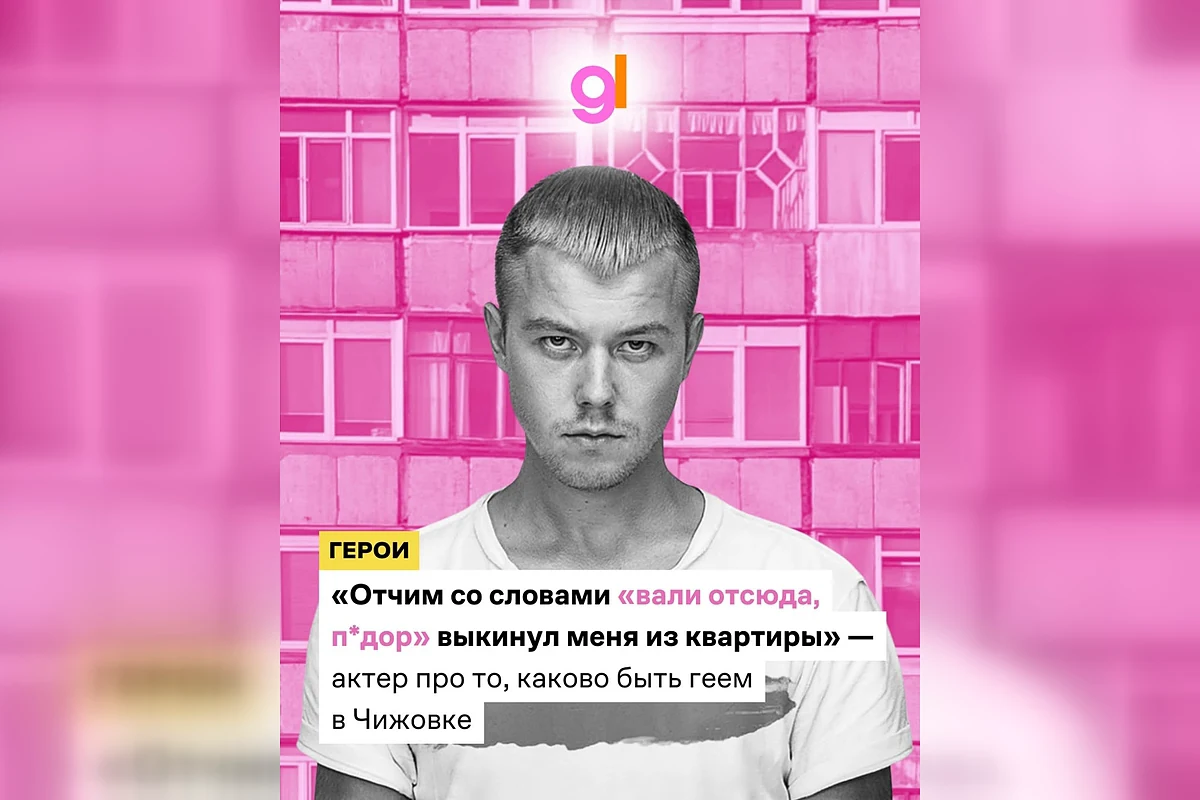
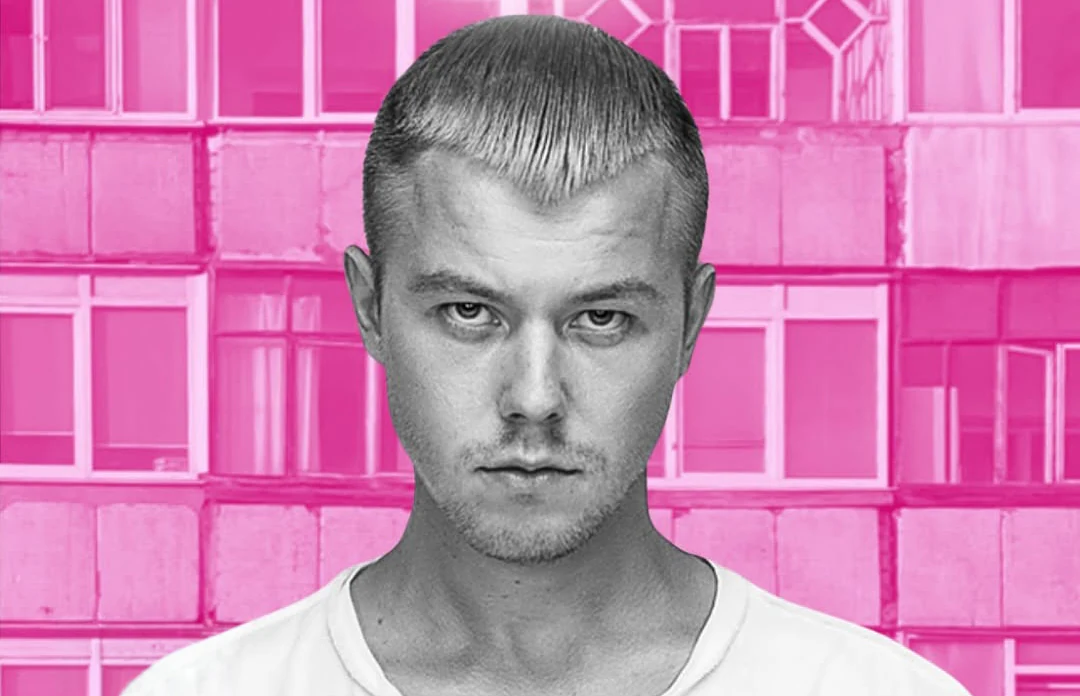
Use final HRF and GPress portraits

diff --git a/styles-routes.css b/styles-routes.css
@@ -66,8 +66,8 @@
 .press-card-media{position:relative;width:calc(100% + 50px);height:210px;flex:0 0 210px;margin:-25px -25px 23px;overflow:hidden;border-bottom:1px solid var(--line);background:#070907}
 .press-card-media img{display:block;width:100%;height:100%;object-fit:cover;filter:saturate(.88) contrast(1.04);transition:transform .45s ease,filter .45s ease}
 .press-card:hover .press-card-media img{transform:scale(1.035);filter:saturate(1) contrast(1.04)}
-.press-image-hrf{object-position:center top}
-.press-image-gpress{object-position:center top}
+.press-image-hrf{object-position:center 36%}
+.press-image-gpress{object-position:center 22%}
 .press-image-charter{object-position:center 27%}
 .press-card-podcast img{object-fit:contain;background:#151515}
 .press-source-mark{position:absolute;left:14px;bottom:14px;padding:7px 9px;border:1px solid rgba(255,255,255,.25);border-radius:999px;background:rgba(3,5,3,.82);backdrop-filter:blur(9px);color:#fff;font:700 .57rem/1 "Space Mono",monospace;letter-spacing:.08em;text-transform:uppercase}
@@ -131,4 +131,4 @@
 .research-community-card::before{content:"ABA";color:var(--acid);border-color:rgba(184,255,53,.42)}
 
 @media(max-width:980px){.route-grid{grid-template-columns:repeat(2,minmax(0,1fr))}.route-heading,.detail-hero-grid,.detail-section-head,.case-evidence{grid-template-columns:1fr}.detail-grid{grid-template-columns:repeat(2,minmax(0,1fr))}.result-grid{grid-template-columns:repeat(2,minmax(0,1fr))}.detail-summary{max-width:680px}.case-image{min-height:430px}.research-program{grid-template-columns:1fr}.research-program-visual{min-height:0}.method-flow{grid-template-columns:repeat(2,minmax(0,1fr))}}
-@media(max-width:640px){.route-strip{padding:54px 0 64px}.route-heading{gap:18px}.route-grid,.detail-grid{grid-template-columns:1fr}.route-card{min-height:300px}.route-card>strong{margin-top:18px}.route-icon{width:70px;height:70px;flex-basis:70px}.detail-nav-links a:not(.detail-nav-cta){display:none}.detail-hero{padding:96px 0 56px}.detail-hero h1{font-size:clamp(3rem,16vw,4.9rem)}.detail-section{padding:64px 0}.detail-section-head{gap:18px}.detail-summary div{grid-template-columns:88px 1fr}.case-image{min-height:0;aspect-ratio:3/2}.result-grid{grid-template-columns:1fr 1fr}.detail-cta-box{align-items:flex-start;flex-direction:column}.detail-cta-box .btn{width:100%}.press-card-media{height:clamp(235px,56vw,310px);flex-basis:clamp(235px,56vw,310px)}.research-program-visual figcaption{font-size:.56rem}.method-flow{grid-template-columns:1fr}.method-flow>div{min-height:170px}.method-flow b{margin-top:28px}.research-evidence-grid .detail-card{min-height:0}.research-evidence-grid .detail-card-media{height:auto}}
+@media(max-width:640px){.route-strip{padding:54px 0 64px}.route-heading{gap:18px}.route-grid,.detail-grid{grid-template-columns:1fr}.route-card{min-height:300px}.route-card>strong{margin-top:18px}.route-icon{width:70px;height:70px;flex-basis:70px}.detail-nav-links a:not(.detail-nav-cta){display:none}.detail-hero{padding:96px 0 56px}.detail-hero h1{font-size:clamp(3rem,16vw,4.9rem)}.detail-section{padding:64px 0}.detail-section-head{gap:18px}.detail-summary div{grid-template-columns:88px 1fr}.case-image{min-height:0;aspect-ratio:3/2}.result-grid{grid-template-columns:1fr 1fr}.detail-cta-box{align-items:flex-start;flex-direction:column}.detail-cta-box .btn{width:100%}.press-card-media{height:clamp(235px,56vw,310px);flex-basis:clamp(235px,56vw,310px)}.press-image-hrf,.press-image-gpress{object-position:center center}.research-program-visual figcaption{font-size:.56rem}.method-flow{grid-template-columns:1fr}.method-flow>div{min-height:170px}.method-flow b{margin-top:28px}.research-evidence-grid .detail-card{min-height:0}.research-evidence-grid .detail-card-media{height:auto}}

diff --git a/press/index.html b/press/index.html
@@ -22,7 +22,7 @@
 <link rel="preconnect" href="https://fonts.gstatic.com" crossorigin>
 <link href="https://fonts.googleapis.com/css2?family=Manrope:wght@400;500;600;700;800&family=Space+Mono:wght@400;700&display=swap" rel="stylesheet">
 <link rel="stylesheet" href="/styles-1.css?v=20260818">
-<link rel="stylesheet" href="/styles-routes.css?v=20260818-press-cards">
+<link rel="stylesheet" href="/styles-routes.css?v=20260818-press-images-final">
 <link rel="stylesheet" href="/styles-20260817.css?v=20260818-public-work">
 <script>document.documentElement.classList.add('js')</script>
 <script type="application/ld+json">{"@context":"https://schema.org","@type":"CollectionPage","name":"Press and Creative Work — Sergéy Ulyanov","url":"https://sergey-ulyanov.pro/press/","about":{"@id":"https://sergey-ulyanov.pro/#person"}}</script>
@@ -75,14 +75,14 @@
 </div>
 <div class="detail-grid">
 <article class="detail-card press-card">
-<div class="press-card-media"><img class="press-image-hrf" src="/assets/press/human-rights-first-2026.webp" width="1200" height="800" alt="Human Rights First World Refugee Day message supporting Sergéy Ulyanov" loading="lazy" decoding="async"><span class="press-source-mark">HUMAN RIGHTS FIRST</span></div>
+<div class="press-card-media"><img class="press-image-hrf" src="/assets/press/human-rights-first-2026.webp?v=20260818-final" width="884" height="700" alt="Portrait of Sergéy Ulyanov for Human Rights First" loading="lazy" decoding="async"><span class="press-source-mark">HUMAN RIGHTS FIRST</span></div>
 <span class="detail-label">Human Rights First · Jun 10, 2026</span>
 <h3>Never Lose Yourself</h3>
 <p>How music helped Sergéy reclaim his future after persecution, displacement, and asylum.</p>
 <a href="https://www.humanrightsfirst.org/library/never-lose-yourself-how-music-helped-sergey-reclaim-his-future" target="_blank" rel="noopener noreferrer">Read story ↗</a>
 </article>
 <article class="detail-card press-card">
-<div class="press-card-media"><img class="press-image-gpress" src="/assets/press/gpress-2025.webp?v=20260818-horizontal" width="1200" height="800" alt="GPress portrait of Sergéy Ulyanov for its long-form profile" loading="lazy" decoding="async"><span class="press-source-mark">GPRESS</span></div>
+<div class="press-card-media"><img class="press-image-gpress" src="/assets/press/gpress-2025.webp?v=20260818-final" width="1080" height="696" alt="GPress portrait of Sergéy Ulyanov for its long-form profile" loading="lazy" decoding="async"><span class="press-source-mark">GPRESS</span></div>
 <span class="detail-label">GPress · 2025</span>
 <h3>From Minsk to a new life in the U.S.</h3>
 <p>A long-form account connecting identity, migration, and the work of starting again.</p>
